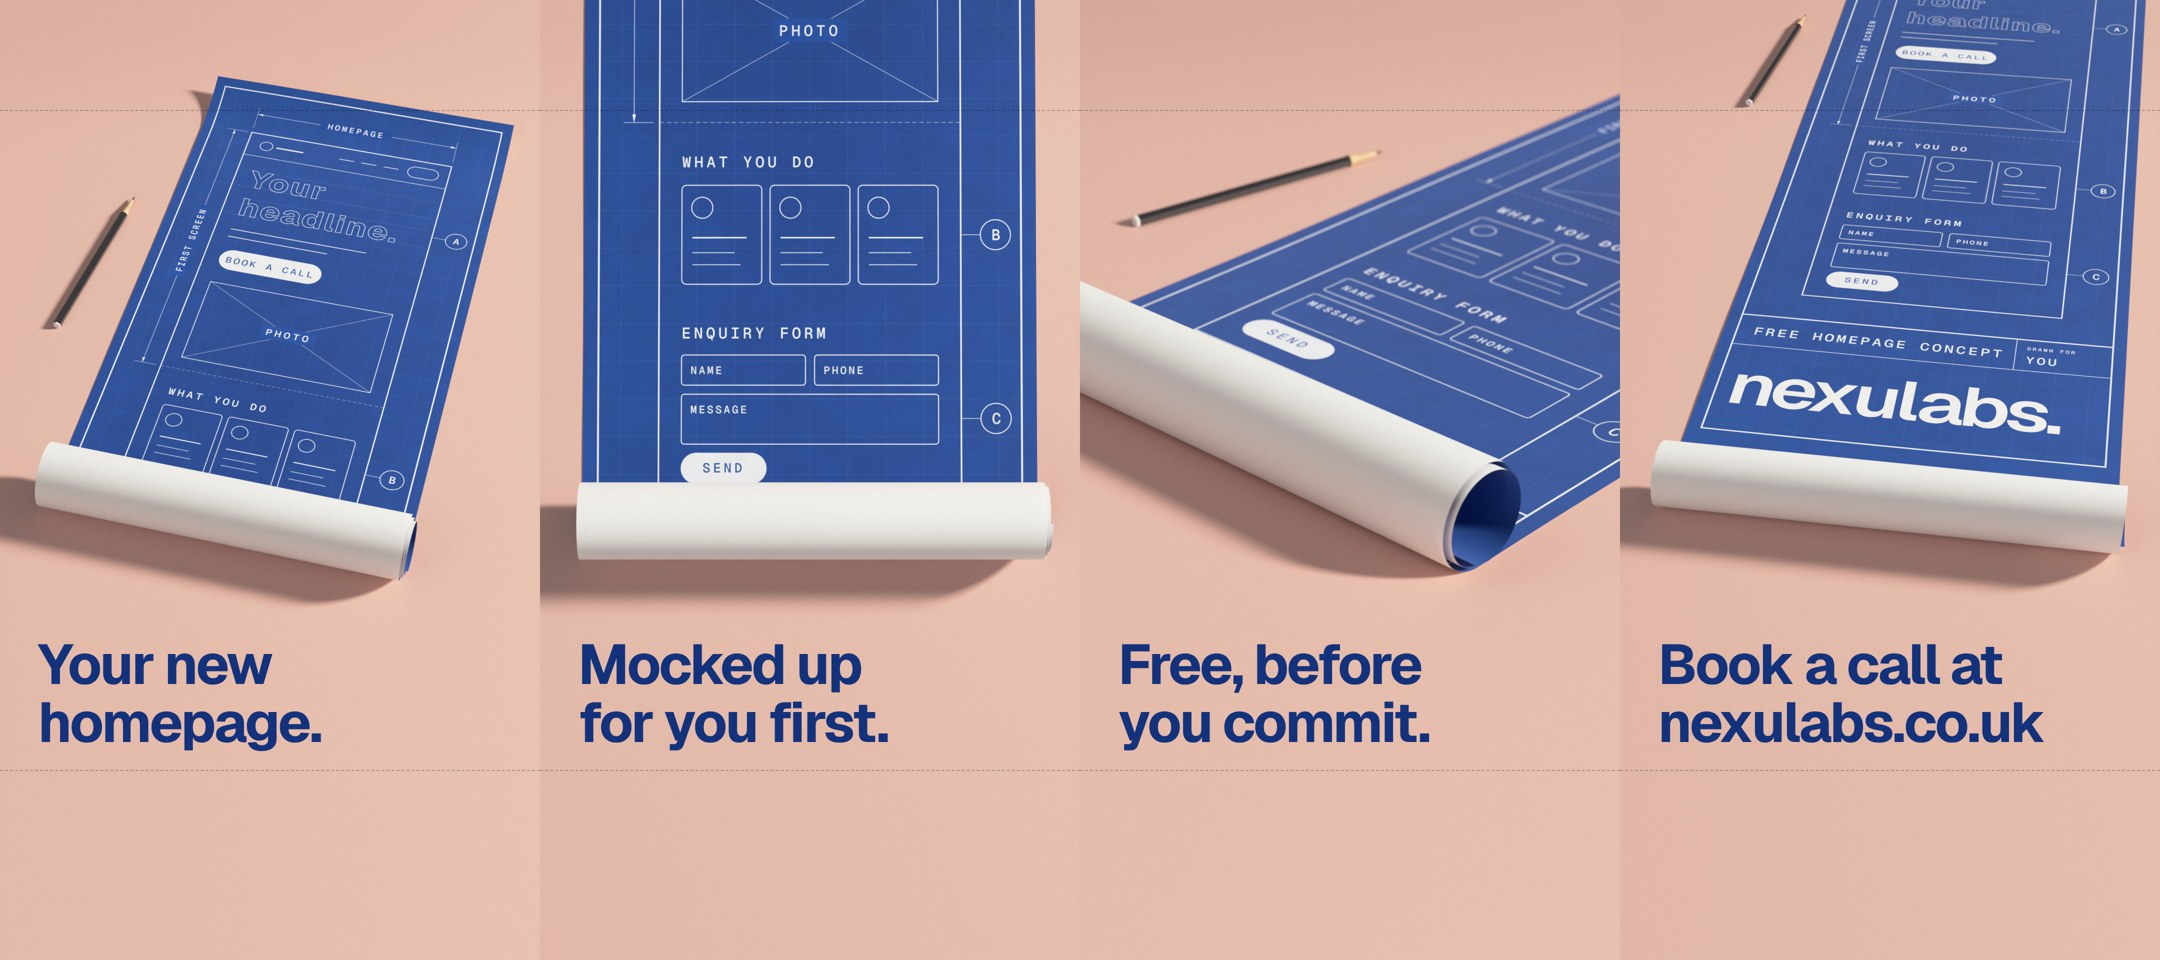
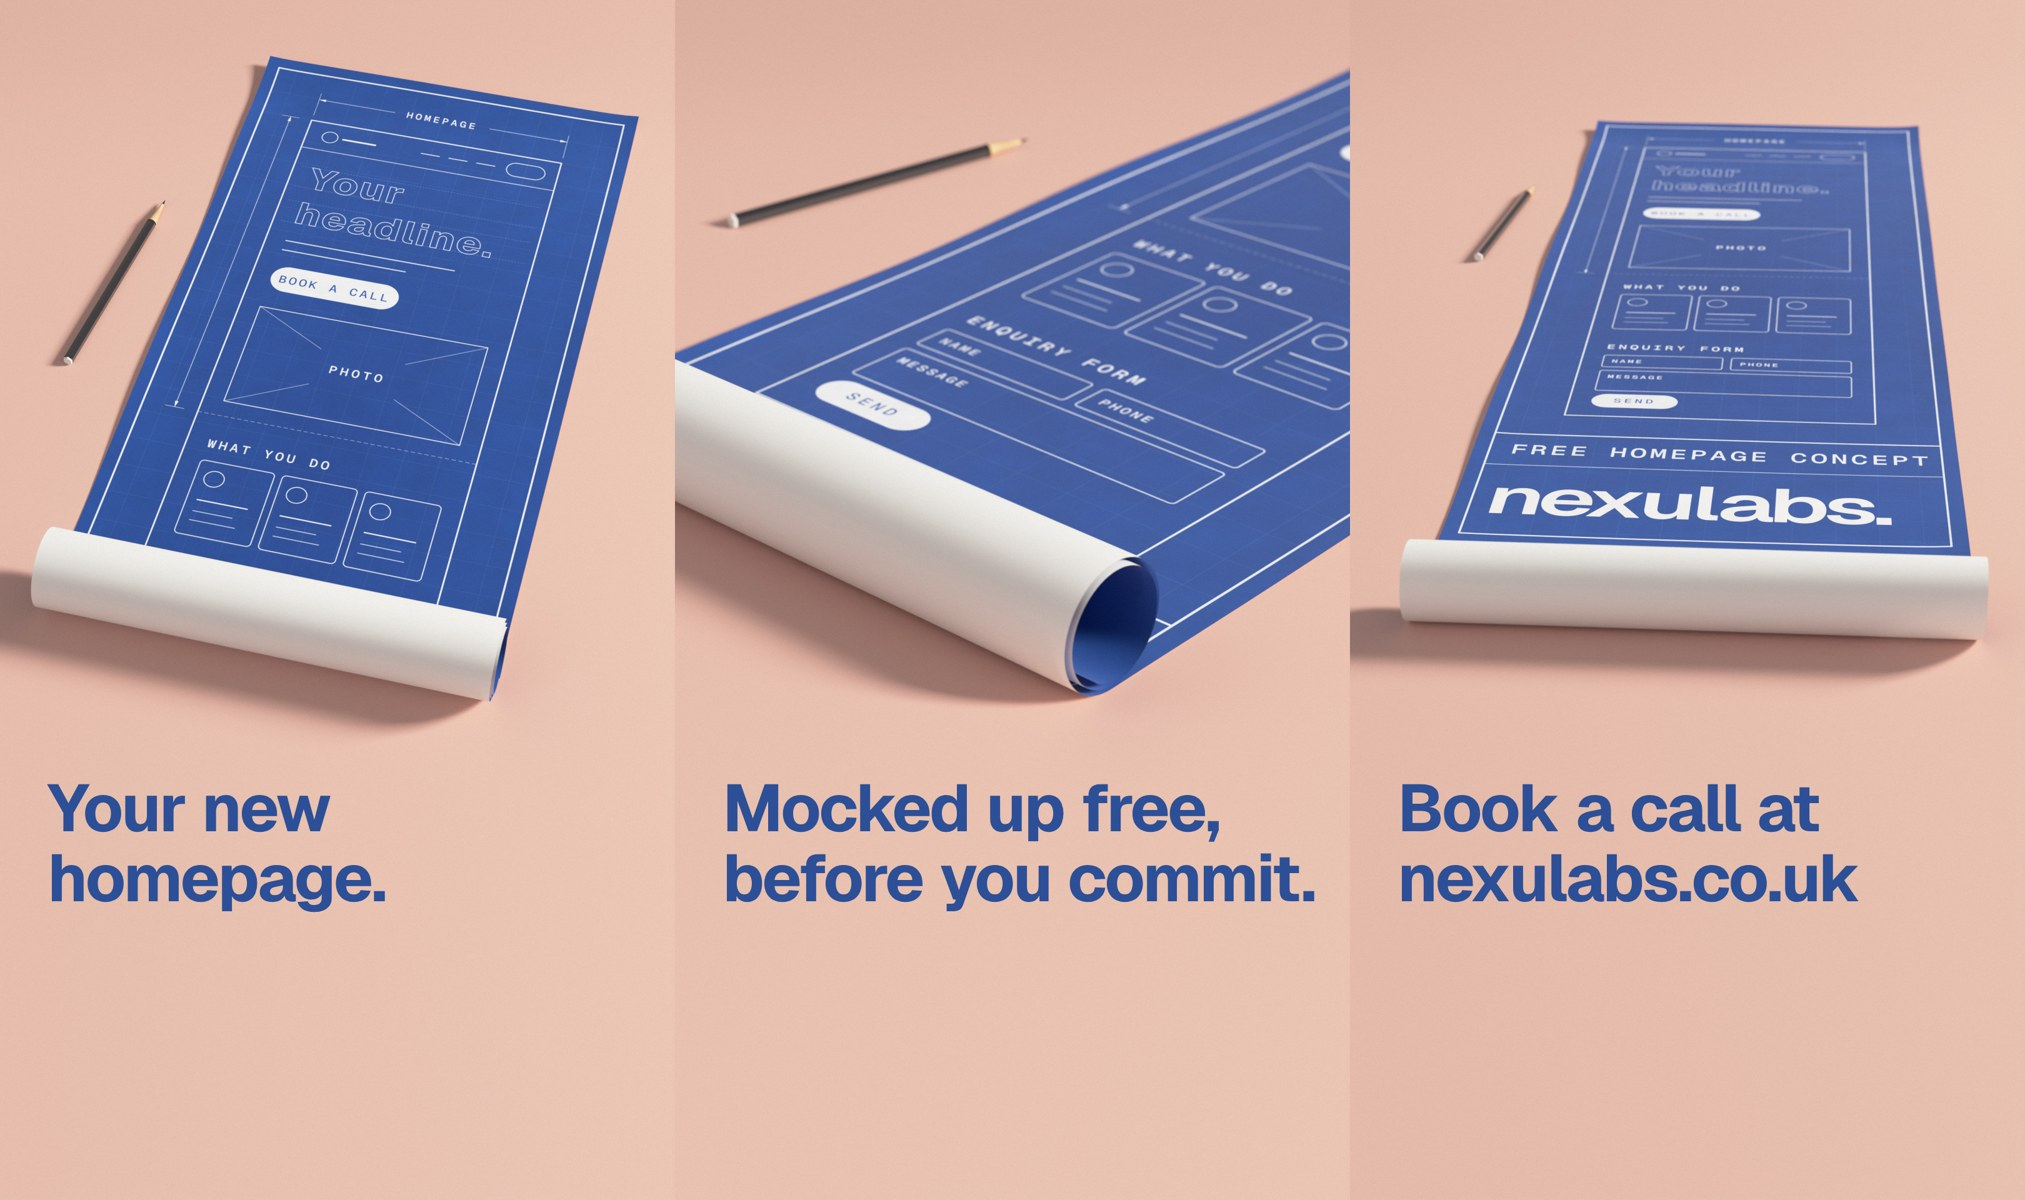
Blueprint Reel: second design hero renders
Claude-Session: https://claude.ai/code/session_015dF8tfAUxfkRLbnXFtNjf1

diff --git a/posts/2026-11-22-1933-drawn-up-first/art/.prev.html b/posts/2026-11-22-1933-drawn-up-first/art/.prev.html
@@ -1,4 +1,3 @@
 <style>@font-face{font-family:Geist;font-weight:700;src:url(file:///home/user/nexulabs-social/fonts/Geist-Bold.woff2)}body{margin:0;display:flex}
 .f{position:relative;width:1080px;height:1920px;background-size:cover;flex:none}
-.h{position:absolute;left:76px;top:1270px;font-family:Geist;font-weight:700;font-size:112px;letter-spacing:-.035em;line-height:1.04;white-space:nowrap;color:#14327C}
-.b{position:absolute;left:0;right:0;border-top:2px dashed rgba(0,0,0,.25)}</style><div class="f" style="background-image:url(file:///home/user/nexulabs-social/posts/2026-11-22-1933-drawn-up-first/art/r-1l.jpg)"><div class="h">Your new<br>homepage.</div><div class="b" style="top:220px"></div><div class="b" style="top:1540px"></div></div><div class="f" style="background-image:url(file:///home/user/nexulabs-social/posts/2026-11-22-1933-drawn-up-first/art/r-2l.jpg)"><div class="h">Mocked up<br>for you first.</div><div class="b" style="top:220px"></div><div class="b" style="top:1540px"></div></div><div class="f" style="background-image:url(file:///home/user/nexulabs-social/posts/2026-11-22-1933-drawn-up-first/art/r-3l.jpg)"><div class="h">Free, before<br>you commit.</div><div class="b" style="top:220px"></div><div class="b" style="top:1540px"></div></div><div class="f" style="background-image:url(file:///home/user/nexulabs-social/posts/2026-11-22-1933-drawn-up-first/art/r-4l.jpg)"><div class="h">Book a call at<br>nexulabs.co.uk</div><div class="b" style="top:220px"></div><div class="b" style="top:1540px"></div></div>
+.h{position:absolute;left:76px;top:1236px;font-family:Geist;font-weight:700;font-size:106px;letter-spacing:-.03em;word-spacing:.05em;line-height:1.06;white-space:nowrap;color:#2C4F97}</style><div class="f" style="background-image:url(file:///home/user/nexulabs-social/posts/2026-11-22-1933-drawn-up-first/art/r-1l.jpg)"><div class="h">Your new<br>homepage.</div></div><div class="f" style="background-image:url(file:///home/user/nexulabs-social/posts/2026-11-22-1933-drawn-up-first/art/r-2l.jpg)"><div class="h">Mocked up free,<br>before you commit.</div></div><div class="f" style="background-image:url(file:///home/user/nexulabs-social/posts/2026-11-22-1933-drawn-up-first/art/r-3l.jpg)"><div class="h">Book a call at<br>nexulabs.co.uk</div></div>

diff --git a/posts/2026-11-22-1933-drawn-up-first/art/reel.html b/posts/2026-11-22-1933-drawn-up-first/art/reel.html
@@ -4,7 +4,7 @@
    Each scene is one camera and twelve renders of the roll further on (r-Na.jpg to r-Nl.jpg), swapped 0.08s apart, then a slow push.
    Scene 1 wide and high from the right, scene 2 low along the roll from its open end, scene 3 low and from the front: the title block and the wordmark.
    The first design (four scenes, one from directly above, reviewed at 6 and that scene called basic) is in art/v1.
-   The headline sits on the bare table the roll is coming towards, in the blue of the sheet: Geist Bold 106px, one size and one margin (76px). */
+   The headline sits on the bare table the roll is coming towards, in the blue of the sheet: Geist Bold 104px, one size and one margin (76px). */
 .scene{overflow:hidden;visibility:hidden;color:#2C4F97;background:#E6BFB3;
   animation:nxIn .01s linear var(--t0) both,nxOut .01s linear var(--t1) forwards,sv calc(var(--t1) - var(--t0) + .02s) linear var(--t0)}
 @keyframes sv{0%,100%{visibility:visible}}
@@ -14,7 +14,7 @@
 .pic{position:absolute;left:0;top:0;width:1080px;height:1920px;background-size:1080px 1920px}
 .pic.on{opacity:0;animation:on .01s linear calc(var(--t0) + var(--at)) both}
 @keyframes on{from{opacity:0}to{opacity:1}}
-.h{position:absolute;left:76px;top:1236px;font-family:Geist;font-weight:700;font-size:106px;letter-spacing:-.03em;word-spacing:.05em;line-height:1.06;white-space:nowrap}
+.h{position:absolute;left:76px;top:1236px;font-family:Geist;font-weight:700;font-size:104px;letter-spacing:-.03em;word-spacing:.05em;line-height:1.06;white-space:nowrap}
 .s1 .cam{transform-origin:76px 1340px;--len:4s;--b:1.025}
 .s2 .cam{transform-origin:76px 1340px;--len:3.8s;--b:1.03}
 .s3 .cam{transform-origin:540px 1340px;--len:4.6s;--b:1.03}
